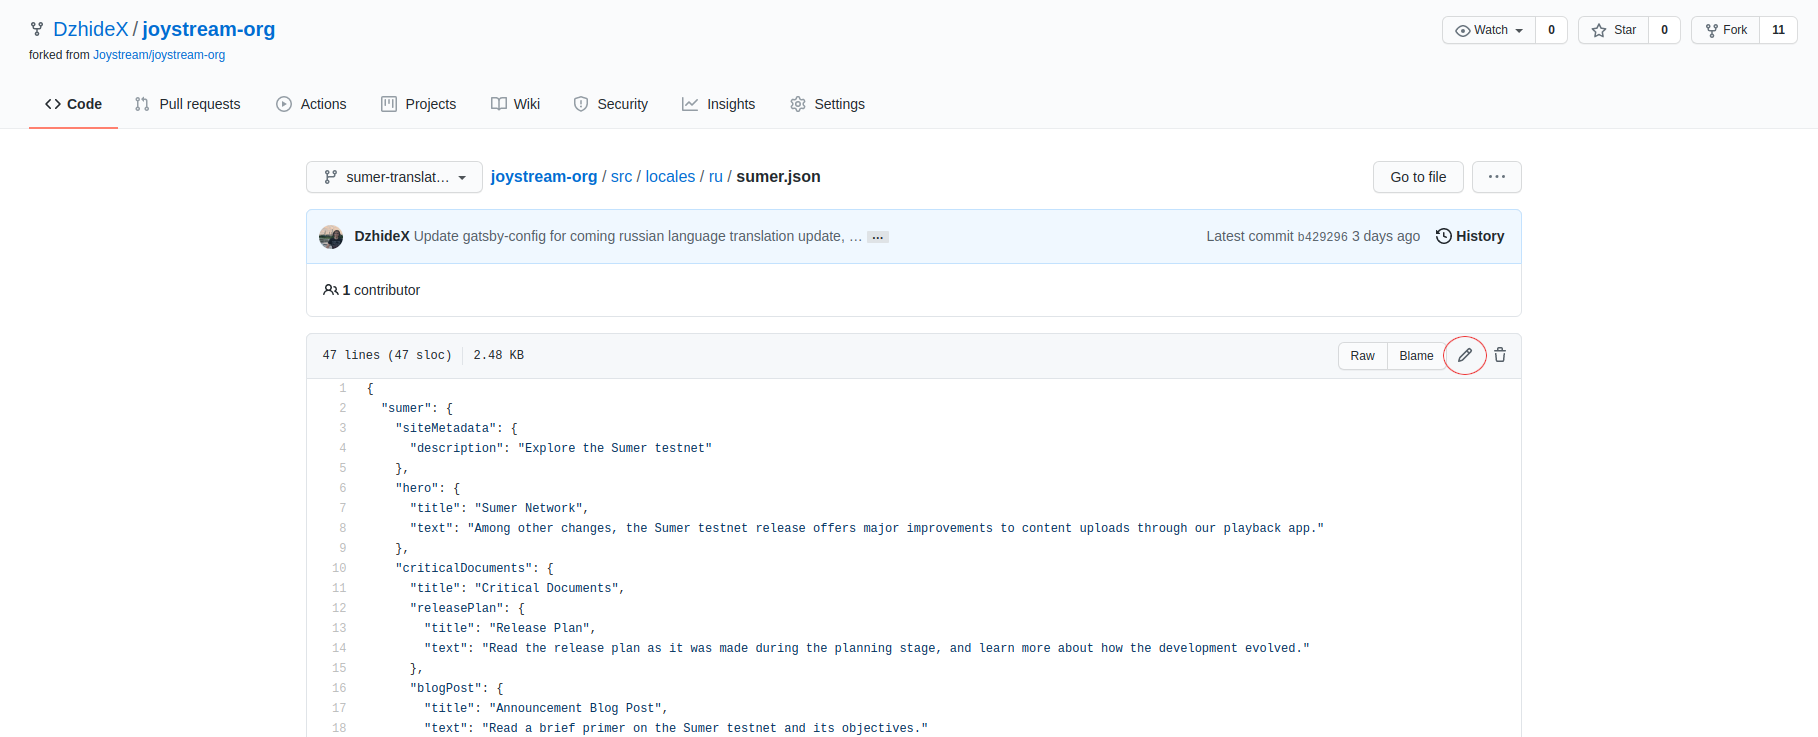
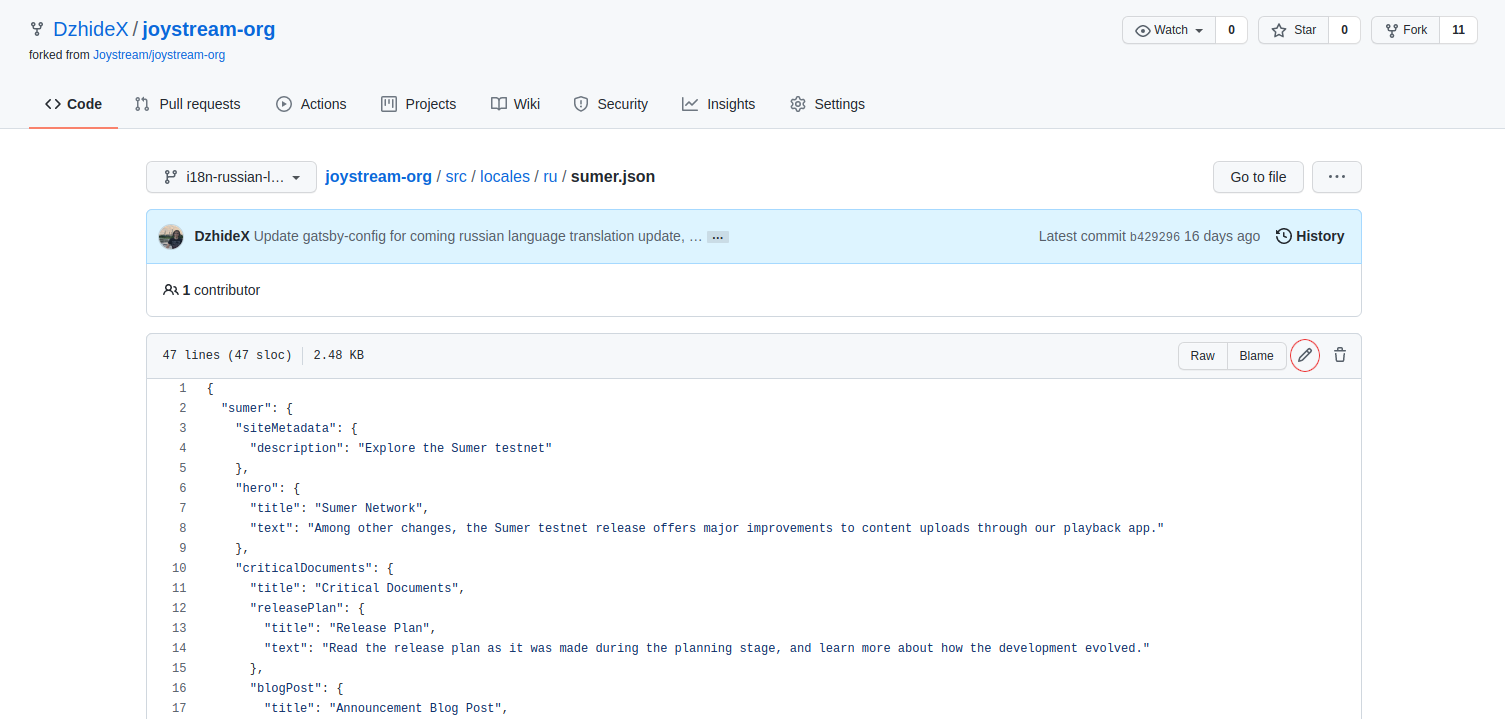
Update option 2 images and text to reflect branch change

diff --git a/src/locales/CONTRIBUTING.md b/src/locales/CONTRIBUTING.md
@@ -93,15 +93,15 @@ If you're not as familiar with git and the whole process of making contributions
 
 ![step one: fork joystream-org repo](../assets/images/i18n-readme/step-one.png)
 
-**Step 2:** Go to your fork and switch over to the development branch.
+**Step 2:** Go to your fork and switch over to the translation branch.
 
-![step two: go to your fork and switch branch to development](../assets/images/i18n-readme/step-two.png)
+![step two: go to your fork and switch branch to translation](../assets/images/i18n-readme/step-two.png)
 
 **Step 3:** If your branch is behind, make sure to pull the latest changes.
 
 ![step three: pull latest changes if necessary](../assets/images/i18n-readme/step-three.png)
 
-**Step 4:** Find the file you wish to translate (that still hasn't been translated) and create a branch that explains exactly what you wish to do. In this example we've used `sumer-translation-ru` to signify that we are translating the sumer testnet file into Russian. You don't have to use this exact naming convention but make sure that it is clear what changes you've made!
+**Step 4:** Find the file you wish to translate (that still hasn't been translated) and create a branch that explains exactly what you are doing. In this example we've used `i18n-russian-language` to signify that we are translating the joystream-org to Russian.
 
 ![step four: create a branch with an explanatory name](../assets/images/i18n-readme/step-four.png)
 
@@ -121,9 +121,9 @@ If you're not as familiar with git and the whole process of making contributions
 
 ![step eight: go back to fork and click compare and pull request](../assets/images/i18n-readme/step-eight.png)
 
-**Step 9:** In this final step, make sure to change the branch to development and then fill out all the necessary PR metadata. Your title and description should meaningfully explain your changes (you can use the example below to get a better idea of what to do). Please don't forget to reference the issue that tracks the translations you're making and also add the `internationalization` label. And finally, after all this hard work you can press *Create pull request*. Thank you! 🎉
+**Step 9:** In this final step, make sure to change the branch to translation and then fill out all the necessary PR metadata. Your title and description should meaningfully explain your changes (you can use the example below to get a better idea of what to do). Please don't forget to also add the `internationalization` label. And finally, after all this hard work you can press *Create pull request*. Thank you! 🎉
 
-![step nine: change branch to dev, explain what you did, reference necessary issue, add internationalization label and create pull request](../assets/images/i18n-readme/step-nine.png)
+![step nine: change branch to translation, explain what you did, add internationalization label and create pull request](../assets/images/i18n-readme/step-nine.png)
 
 **Step 10:** You can now continue adding translations to the same PR until you're done with the scope of the tasks explained in the Bounty.
 
